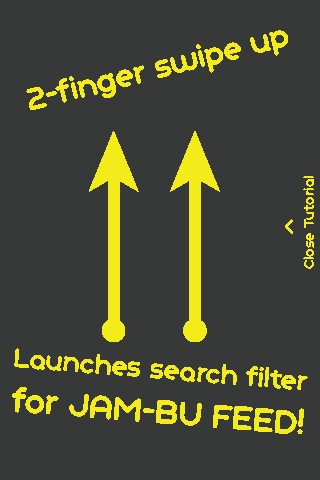
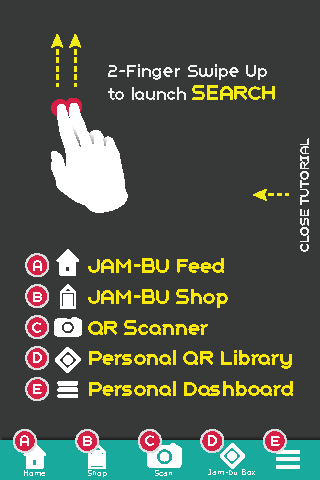
Tutorial view updated

diff --git a/Tutorial/TutorialView.m b/Tutorial/TutorialView.m
@@ -18,16 +18,16 @@
         
         // Add Image view
         UIImageView *imageView = [[UIImageView alloc] initWithFrame:CGRectMake(0, 0, self.frame.size.width, self.frame.size.height)];
-        [imageView setImage:[UIImage imageNamed:@"tutorial"]];
+//        [imageView setImage:[UIImage imageNamed:@"tutorial"]];
         
         CGRect screenBounds = [[UIScreen mainScreen] bounds];
         
         if (screenBounds.size.height == 568) {
             // code for 4-inch screen
-            [imageView setImage:[UIImage imageNamed:@"tutorial"]];
+            [imageView setImage:[UIImage imageNamed:@"tutorial@2x"]];
         } else {
             // code for 3.5-inch screen
-            [imageView setImage:[UIImage imageNamed:@"tutorial@2x"]];
+            [imageView setImage:[UIImage imageNamed:@"tutorial"]];
         }
 
         
